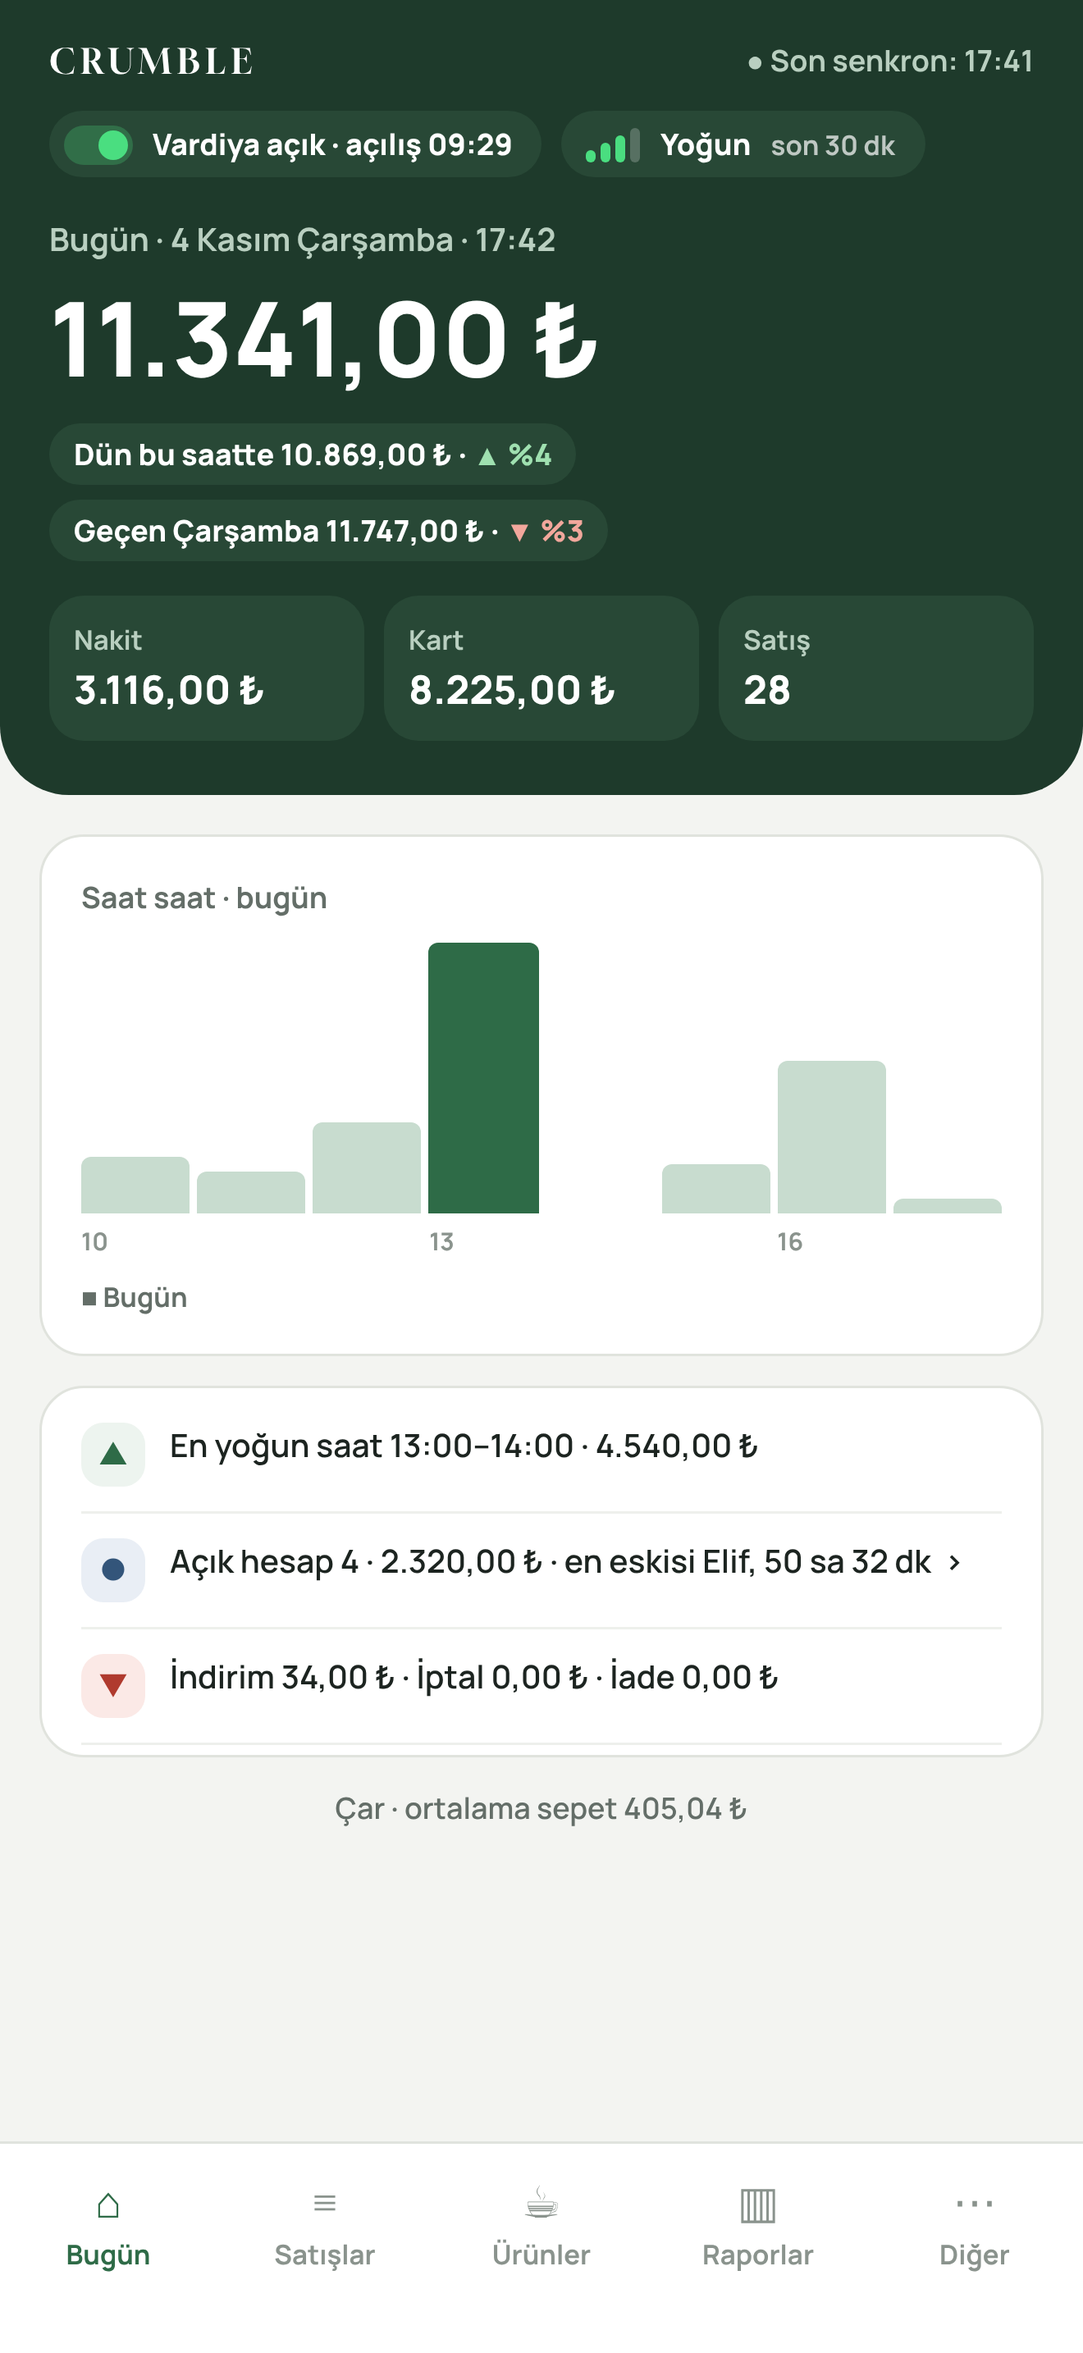
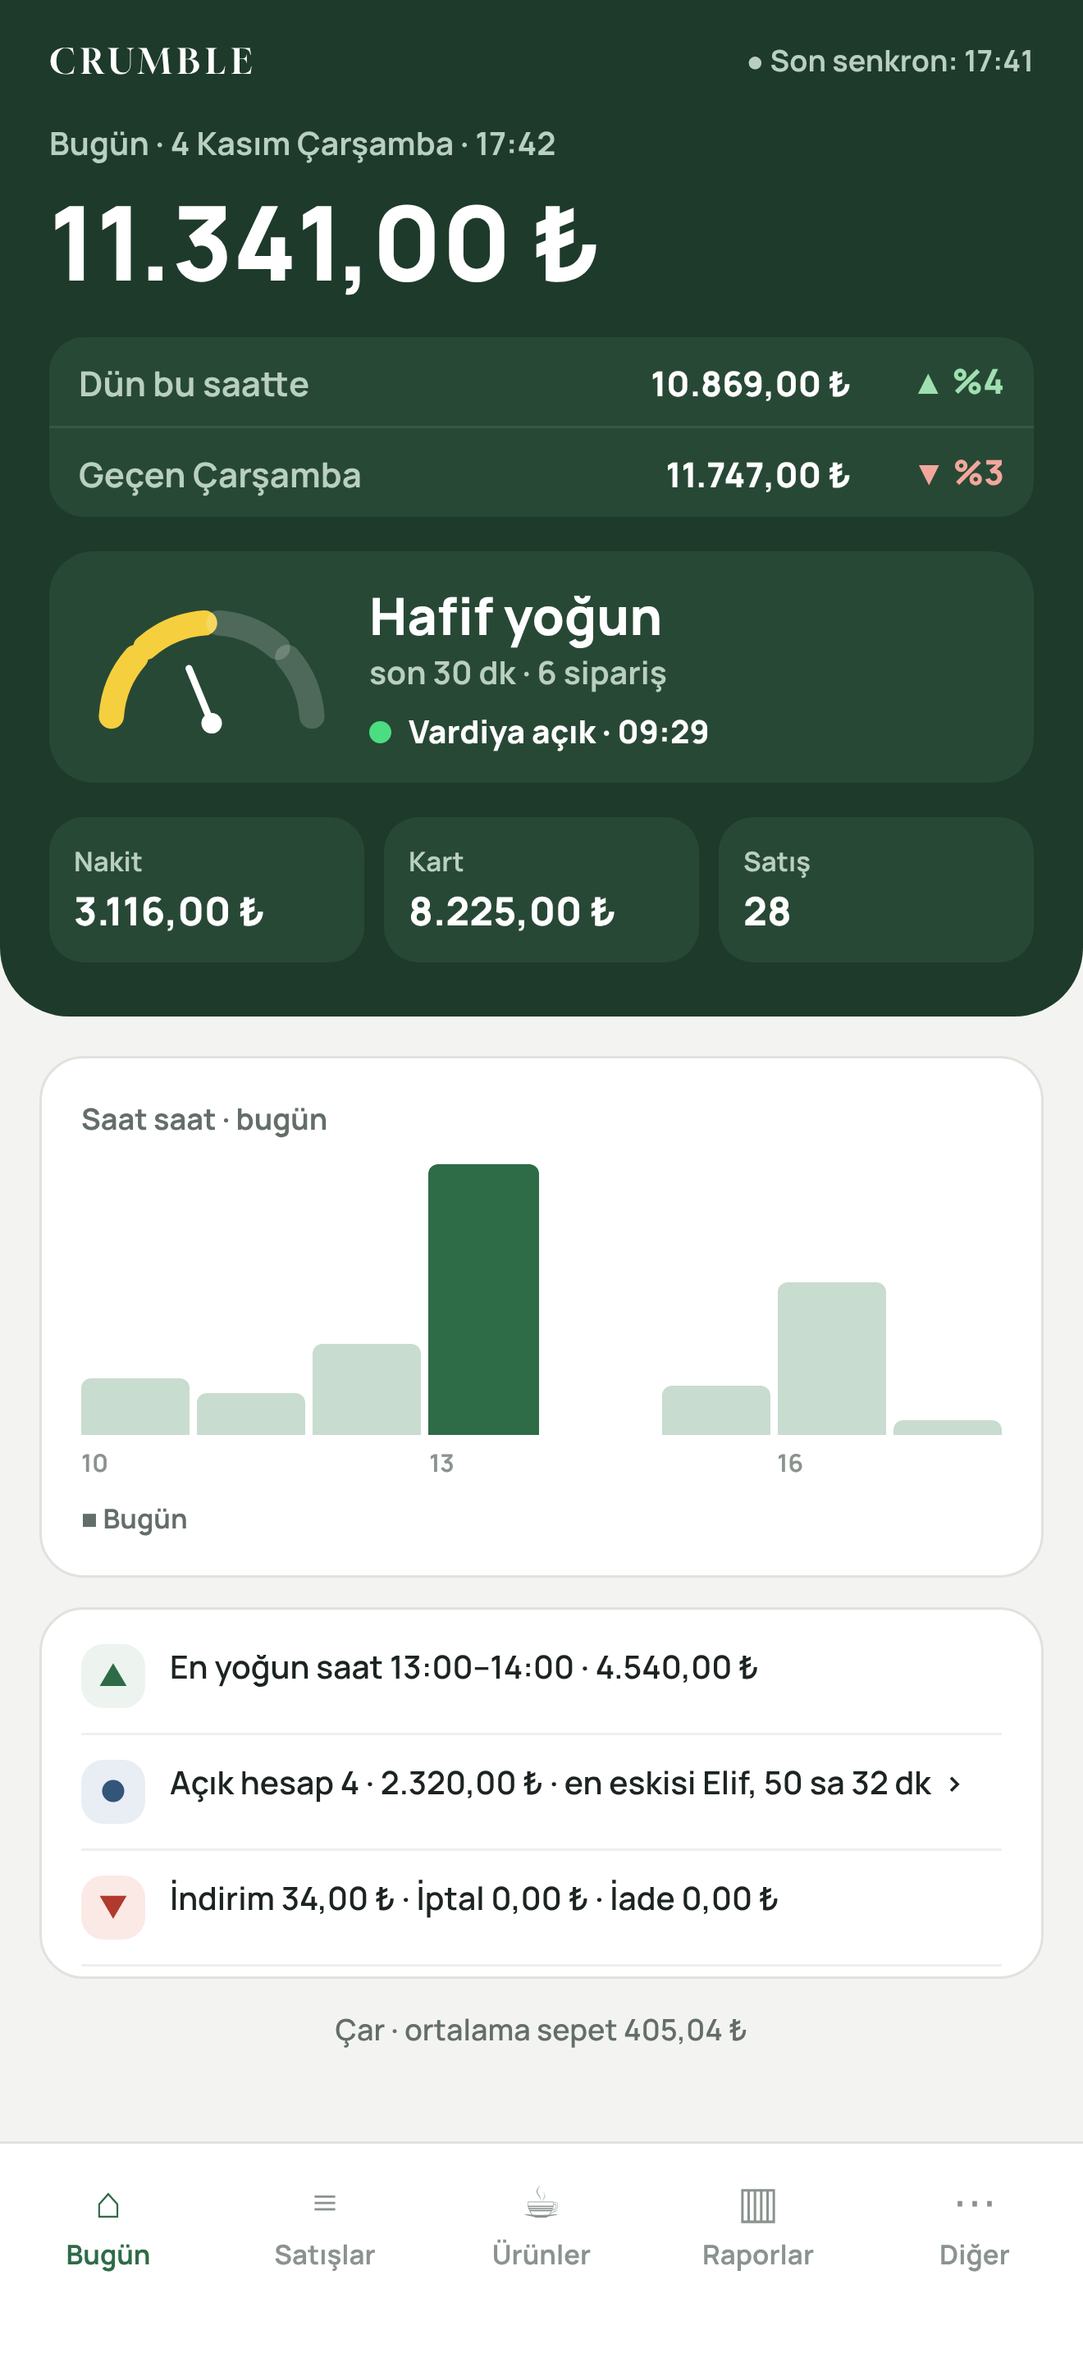
Bugün: tasarım D (kadranlı durum kartı, kıyas listesi), yoğunluk renkleri
- Kıyaslar ciro altında iki satırlık liste, daha büyük yazı.
- Durum kartı: yarım daire yoğunluk kadranı (react-native-svg), seviye,
  son 30 dk sipariş sayısı ve vardiya satırı; senkron üstte kalır.
- Renkler: Sakin yeşil, Hafif yoğun sarımsı, Yoğun koyu turuncu, Çok yoğun kırmızı.
- Ekran görüntüleri yenilendi.

Claude-Session: https://claude.ai/code/session_014qo2PrhJxNVW9tHAzbBuyy

diff --git a/apps/manager-mobile/components/ui.tsx b/apps/manager-mobile/components/ui.tsx
@@ -2,6 +2,7 @@ import { type Busyness, formatTL } from '@crumble/shared';
 import { type ReactNode, useEffect, useRef } from 'react';
 import { Animated, Pressable, RefreshControl, ScrollView, StyleSheet, Text, View } from 'react-native';
 import { useSafeAreaInsets } from 'react-native-safe-area-context';
+import Svg, { Circle, Line, Path } from 'react-native-svg';
 import { loadDeviceStatus } from '../lib/data';
 import { formatDateTime, formatTime } from '../lib/format';
 import { useLive } from '../lib/useLive';
@@ -103,11 +104,11 @@ export function Label({ children }: { children: ReactNode }) {
 }
 
 /** ▲ %15 / ▼ %7 (green / red); nothing when there is no basis. */
-export function Delta({ value, suffix = '', onDark = false }: { value: number | null; suffix?: string; onDark?: boolean }) {
-  if (value === null) return <Text style={[styles.delta, { color: onDark ? colors.forestMuted : colors.faint }]}>—</Text>;
+export function Delta({ value, suffix = '', onDark = false, size }: { value: number | null; suffix?: string; onDark?: boolean; size?: number }) {
+  if (value === null) return <Text style={[styles.delta, size ? { fontSize: size } : null, { color: onDark ? colors.forestMuted : colors.faint }]}>—</Text>;
   const up = value >= 0;
   const color = onDark ? (up ? colors.upOnDark : colors.downOnDark) : up ? colors.ok : colors.danger;
-  return <Text style={[styles.delta, { color }]}>{`${up ? '▲' : '▼'} %${Math.abs(value)}${suffix}`}</Text>;
+  return <Text style={[styles.delta, size ? { fontSize: size } : null, { color }]}>{`${up ? '▲' : '▼'} %${Math.abs(value)}${suffix}`}</Text>;
 }
 
 export function Stat({
@@ -380,13 +381,12 @@ export function Fact({ tone, children }: { tone: 'up' | 'down' | 'info'; childre
 
 export const styles = StyleSheet.create({
   screen: { flex: 1, backgroundColor: colors.bg },
-  shiftLight: { flexDirection: 'row', alignItems: 'center', gap: 8, alignSelf: 'flex-start', marginTop: 12, backgroundColor: colors.forestChip, borderRadius: 999, paddingVertical: 5, paddingLeft: 6, paddingRight: 12 },
-  shiftTrack: { width: 28, height: 16, borderRadius: 999, padding: 2 },
-  shiftKnob: { width: 12, height: 12, borderRadius: 999 },
-  shiftText: { color: colors.forestInk, fontFamily: fonts.heavy, fontSize: 12 },
-  busyBars: { flexDirection: 'row', alignItems: 'flex-end', gap: 2, height: 14, paddingLeft: 4 },
-  busyBar: { width: 4, borderRadius: 2 },
-  busySub: { color: colors.forestInk, opacity: 0.7, fontFamily: fonts.bold, fontSize: 11 },
+  status: { flexDirection: 'row', alignItems: 'center', gap: 12, marginTop: 14, backgroundColor: colors.forestChip, borderRadius: 18, paddingVertical: 12, paddingHorizontal: 14 },
+  statusLevel: { color: colors.forestInk, fontFamily: fonts.heavy, fontSize: 21 },
+  statusSub: { color: colors.forestMuted, fontFamily: fonts.bold, fontSize: 13 },
+  statusShift: { flexDirection: 'row', alignItems: 'center', gap: 7, marginTop: 6 },
+  statusDot: { width: 9, height: 9, borderRadius: 999 },
+  statusShiftText: { color: colors.forestInk, fontFamily: fonts.heavy, fontSize: 13 },
   heroBounce: { position: 'absolute', top: -1000, left: 0, right: 0, height: 1000, backgroundColor: colors.forest },
   content: { padding: 16, paddingBottom: 40 },
   header: { marginBottom: 14, flexDirection: 'row', alignItems: 'flex-end', justifyContent: 'space-between', gap: 8, flexWrap: 'wrap' },
@@ -432,16 +432,47 @@ export const styles = StyleSheet.create({
   factText: { flex: 1, fontSize: 13, lineHeight: 19, color: colors.text, fontFamily: fonts.semibold },
 });
 
+/** Kafe yoğunluğu kadranı (2026-11-04, tasarım D): four arcs, filled up to the level, and a needle. */
+export function BusyGauge({ level, width = 104 }: { level: number | null; width?: number }) {
+  const cx = 56, cy = 58, r = 44, gap = 0.07;
+  const point = (a: number) => `${(cx + r * Math.cos(a)).toFixed(2)} ${(cy + r * Math.sin(a)).toFixed(2)}`;
+  const needle = Math.PI + (((level ?? 0) + 0.5) * Math.PI) / 4;
+  const tint = level === null ? colors.gaugeIdle : colors.busy[level]!;
+  return (
+    <Svg width={width} height={(width * 66) / 112} viewBox="0 0 112 66">
+      {[0, 1, 2, 3].map((i) => {
+        const a0 = Math.PI + (i * Math.PI) / 4 + gap;
+        const a1 = Math.PI + ((i + 1) * Math.PI) / 4 - gap;
+        return (
+          <Path
+            key={i}
+            d={`M${point(a0)} A${r} ${r} 0 0 1 ${point(a1)}`}
+            stroke={level !== null && i <= level ? tint : colors.gaugeIdle}
+            strokeWidth={11}
+            strokeLinecap="round"
+            fill="none"
+          />
+        );
+      })}
+      {level !== null && (
+        <>
+          <Line x1={cx} y1={cy} x2={cx + 26 * Math.cos(needle)} y2={cy + 26 * Math.sin(needle)} stroke="#fff" strokeWidth={3} strokeLinecap="round" />
+          <Circle cx={cx} cy={cy} r={4.5} fill="#fff" />
+        </>
+      )}
+    </Svg>
+  );
+}
+
 /**
- * Vardiya göstergesi (2026-11-04): a small switch-like pill on the Bugün hero,
- * green and gently pulsing while a shift is open, red when it is closed. Only
- * shows the state; nothing happens on tap.
+ * Bugün'ün durum kartı (2026-11-04, tasarım D): the busyness gauge, its level
+ * and the last half hour's order count, and under them the shift (green dot
+ * gently pulsing while open, red when closed). Only shows state.
  */
-export function ShiftLight({ open, since }: { open: boolean; since?: string }) {
+export function StatusCard({ busy, openedAt }: { busy: Busyness | null; openedAt: string | null }) {
   const pulse = useRef(new Animated.Value(1)).current;
-  const knob = useRef(new Animated.Value(open ? 1 : 0)).current;
+  const open = openedAt !== null;
   useEffect(() => {
-    Animated.timing(knob, { toValue: open ? 1 : 0, duration: 250, useNativeDriver: true }).start();
     if (!open) {
       pulse.setValue(1);
       return;
@@ -454,35 +485,21 @@ export function ShiftLight({ open, since }: { open: boolean; since?: string }) {
     );
     loop.start();
     return () => loop.stop();
-  }, [open, knob, pulse]);
-  const tint = open ? colors.shiftOpen : colors.shiftClosed;
+  }, [open, pulse]);
+  const shown = open ? busy : null;
   return (
-    <View style={styles.shiftLight} accessibilityLabel={open ? 'Vardiya açık' : 'Vardiya kapalı'} testID="shift-light">
-      <View style={[styles.shiftTrack, { backgroundColor: open ? 'rgba(74,222,128,0.25)' : 'rgba(248,113,113,0.25)' }]}>
-        <Animated.View
-          style={[
-            styles.shiftKnob,
-            { backgroundColor: tint, opacity: pulse, transform: [{ translateX: knob.interpolate({ inputRange: [0, 1], outputRange: [0, 12] }) }] },
-          ]}
-        />
+    <View style={styles.status} testID="busy-meter" accessibilityLabel={shown ? `Yoğunluk: ${shown.label}` : 'Vardiya kapalı'}>
+      <BusyGauge level={shown?.level ?? null} />
+      <View style={{ flex: 1 }}>
+        <Text style={[styles.statusLevel, !shown && { color: colors.forestMuted }]} testID="busy-label">
+          {shown?.label ?? '—'}
+        </Text>
+        <Text style={styles.statusSub}>{shown ? `son 30 dk · ${shown.orders} sipariş` : 'vardiya açılınca görünür'}</Text>
+        <View style={styles.statusShift} testID="shift-light" accessibilityLabel={open ? 'Vardiya açık' : 'Vardiya kapalı'}>
+          <Animated.View style={[styles.statusDot, { backgroundColor: open ? colors.shiftOpen : colors.shiftClosed, opacity: pulse }]} />
+          <Text style={styles.statusShiftText}>{open ? `Vardiya açık · ${formatTime(openedAt)}` : 'Vardiya kapalı'}</Text>
+        </View>
       </View>
-      <Text style={styles.shiftText}>{open ? `Vardiya açık${since ? ` · ${since}` : ''}` : 'Vardiya kapalı'}</Text>
-    </View>
-  );
-}
-
-/** Kafe yoğunluğu (2026-11-04): four signal bars and the level, from the last 30 minutes' orders. */
-export function BusyMeter({ busy }: { busy: Busyness }) {
-  const tint = busy.level === 3 ? colors.shiftClosed : colors.shiftOpen;
-  return (
-    <View style={styles.shiftLight} accessibilityLabel={`Yoğunluk: ${busy.label}`} testID="busy-meter">
-      <View style={styles.busyBars}>
-        {[0, 1, 2, 3].map((i) => (
-          <View key={i} style={[styles.busyBar, { height: 5 + i * 3, backgroundColor: i <= busy.level ? tint : 'rgba(255,255,255,0.22)' }]} />
-        ))}
-      </View>
-      <Text style={styles.shiftText} testID="busy-label">{busy.label}</Text>
-      <Text style={styles.busySub}>son 30 dk</Text>
     </View>
   );
 }

diff --git a/apps/manager-mobile/app/(tabs)/index.tsx b/apps/manager-mobile/app/(tabs)/index.tsx
@@ -20,7 +20,7 @@ import { useCallback } from 'react';
 import { Pressable, StyleSheet, Text, View } from 'react-native';
 import { useSafeAreaInsets } from 'react-native-safe-area-context';
 import { colors, fonts } from '../../components/theme';
-import { BusyMeter, Card, Columns, Delta, Fact, Label, LastSync, Screen, ShiftLight } from '../../components/ui';
+import { Card, Columns, Delta, Fact, Label, LastSync, Screen, StatusCard } from '../../components/ui';
 import { loadCatalog, loadItemsSince, loadOpenShift, loadOpenTabTotals, loadReportData } from '../../lib/data';
 import { formatDay, formatTime, tabLabel } from '../../lib/format';
 import { useLive } from '../../lib/useLive';
@@ -96,28 +96,29 @@ export default function Today() {
         <Text style={s.brand}>CRUMBLE</Text>
         <LastSync onDark />
       </View>
-      <View style={s.chips}>
-        <ShiftLight open={!!data.openShift} since={data.openShift ? `açılış ${formatTime(data.openShift.opened_at)}` : undefined} />
-        {data.openShift && <BusyMeter busy={busy} />}
-      </View>
       <Text style={s.heroLabel}>
         Bugün · {formatDay(today)} · {formatTime(now)}
       </Text>
       <Text style={s.heroBig} testID="today-revenue">
         {formatTL(totals.revenue)}
       </Text>
-      <View style={s.pills}>
-        <View style={s.pill}>
-          <Text style={s.pillText}>Dün bu saatte {formatTL(cmp.yesterday.revenue)} · </Text>
-          <Delta value={cmp.vsYesterday} onDark />
+      <View style={s.compare}>
+        <View style={s.compareRow}>
+          <Text style={s.compareLabel}>Dün bu saatte</Text>
+          <Text style={s.compareValue}>{formatTL(cmp.yesterday.revenue)}</Text>
+          <View style={s.comparePct}>
+            <Delta value={cmp.vsYesterday} onDark size={14} />
+          </View>
         </View>
-        <View style={s.pill}>
-          <Text style={s.pillText}>
-            Geçen {WEEKDAY_LONG[weekday]} {formatTL(cmp.lastWeek.revenue)} ·{' '}
-          </Text>
-          <Delta value={cmp.vsLastWeek} onDark />
+        <View style={[s.compareRow, s.compareRule]}>
+          <Text style={s.compareLabel}>Geçen {WEEKDAY_LONG[weekday]}</Text>
+          <Text style={s.compareValue}>{formatTL(cmp.lastWeek.revenue)}</Text>
+          <View style={s.comparePct}>
+            <Delta value={cmp.vsLastWeek} onDark size={14} />
+          </View>
         </View>
       </View>
+      <StatusCard busy={busy} openedAt={data.openShift?.opened_at ?? null} />
       <View style={s.heroGrid}>
         <View style={s.heroCell}>
           <Text style={s.heroCellLabel}>Nakit</Text>
@@ -186,13 +187,16 @@ export default function Today() {
 const s = StyleSheet.create({
   hero: { backgroundColor: colors.forest, paddingHorizontal: 20, paddingBottom: 22, borderBottomLeftRadius: 28, borderBottomRightRadius: 28 },
   heroTop: { flexDirection: 'row', justifyContent: 'space-between', alignItems: 'center' },
-  chips: { flexDirection: 'row', flexWrap: 'wrap', columnGap: 8 },
   brand: { fontFamily: fonts.brand, color: '#fff', fontSize: 14, letterSpacing: 2.5 },
   heroLabel: { marginTop: 16, fontSize: 13, fontFamily: fonts.bold, color: colors.forestMuted },
   heroBig: { fontSize: 42, fontFamily: fonts.heavy, color: '#fff', marginTop: 2 },
-  pills: { flexDirection: 'row', flexWrap: 'wrap', gap: 6, marginTop: 6 },
-  pill: { flexDirection: 'row', alignItems: 'center', backgroundColor: colors.forestChip, borderRadius: 999, paddingHorizontal: 10, paddingVertical: 4 },
-  pillText: { fontSize: 12, fontFamily: fonts.heavy, color: '#fff' },
+  // Tasarım D (2026-11-04): the comparisons as a two-row list, larger than the old pills.
+  compare: { marginTop: 10, backgroundColor: colors.forestChip, borderRadius: 14, overflow: 'hidden' },
+  compareRow: { flexDirection: 'row', alignItems: 'center', gap: 10, paddingHorizontal: 12, paddingVertical: 8 },
+  compareRule: { borderTopWidth: 1, borderTopColor: 'rgba(255,255,255,0.08)' },
+  compareLabel: { flex: 1, fontSize: 14, fontFamily: fonts.bold, color: colors.forestMuted },
+  compareValue: { fontSize: 14, fontFamily: fonts.heavy, color: '#fff' },
+  comparePct: { minWidth: 52, alignItems: 'flex-end' },
   heroGrid: { flexDirection: 'row', gap: 8, marginTop: 14 },
   heroCell: { flex: 1, backgroundColor: colors.forestChip, borderRadius: 14, padding: 10 },
   heroCellLabel: { fontSize: 11, fontFamily: fonts.bold, color: colors.forestMuted },

diff --git a/apps/manager-mobile/components/theme.ts b/apps/manager-mobile/components/theme.ts
@@ -5,6 +5,9 @@ export const colors = {
   forest: '#1E3A2B',
   shiftOpen: '#4ADE80',
   shiftClosed: '#F87171',
+  /** Yoğunluk Sakin → Çok yoğun (kullanıcı 2026-11-04: hafif sarımsı, yoğun koyu turuncu). */
+  busy: ['#4ADE80', '#F5CF3D', '#EE6A1F', '#F05252'] as const,
+  gaugeIdle: 'rgba(255,255,255,0.18)',
   forestChip: '#284836',
   forestInk: '#FFFFFF',
   forestMuted: '#B9CFC0',

diff --git a/CLAUDE.md b/CLAUDE.md
@@ -240,9 +240,9 @@ Kaynak repo kökündeki `crumble_menu_seed.csv` (Google Doc `Crumble_Menu_Kasim2
   - Telefon tablolara yazmaz: `tab_request()` ile `tab_requests`'e istek bırakır (`20261104000012_tab_requests.sql`). Türler: ödeme (tutar + nakit/kart sorulur; "Hepsi" kalanı doldurur), ad değiştirme, iptal (sadece hiç ödeme alınmamışsa; ödemeliyse önce kasada iade).
   - Kasa `src/sync/requests.ts` ile senkron turunda bekleyen istekleri çeker, kendi kurallarıyla uygular (`pay`/`setCustomerName`/`voidTab`; ödeme açık vardiyaya yazılır, vardiya kapalıysa reddedilir), push'tan sonra `tab_request_result()` ile done/rejected yazar. Ödemenin id'si isteğin id'si: iki kez uygulamak zararsız. Telefon "kasaya gidiyor / kasada yapıldı / yapılamadı" gösterir. Kasa ekranları `tabsVersion` (`useTabsVersion`) ile yenilenir; açık TabScreen telefonda kapanan hesaptan çıkar.
   - Kullanıcı: hesap düzenlemede sadece ad (ürün ekleme/çıkarma, adet yok).
-- **Mobil yenileme (2026-11-04):** `useLive` arka planda sessiz yeniler (spinner sadece aşağı çekince), yüklemeler üst üste binmez. RefreshControl uygulama renklerinde; Bugün'de yeşil zemin aşağı çekince de yeşil. Bugün'de vardiya göstergesi `ShiftLight` (açıkken yeşil nabız, kapalıyken kırmızı; işlevsiz).
+- **Mobil yenileme (2026-11-04):** `useLive` arka planda sessiz yeniler (spinner sadece aşağı çekince), yüklemeler üst üste binmez. RefreshControl uygulama renklerinde; Bugün'de yeşil zemin aşağı çekince de yeşil. Bugün'de vardiya göstergesi (açıkken yeşil nabız, kapalıyken kırmızı; işlevsiz), 2026-11-04'ten beri `StatusCard` içinde.
 - **App Store (2026-11-04, kullanıcı kararı):** Unlisted dağıtım (aramada yok, sadece link), incelemeciye ortak hesabı (şifreyi kullanıcı yazar). Adımlar ve metinler `apps/manager-mobile/store/app-store.md`, gizlilik politikası `store/gizlilik.md` (repo açık, GitHub adresi kullanılır). Ekran görüntüleri `store/screenshots/` (6,9", demo veri) `apps/pos-desktop/e2e/store-screenshots.e2e.ts` ile üretilir (sadece `CRUMBLE_STORE_SHOTS` verilince çalışır). Web'de alt sekme çubuğu iPhone'daki alt boşluk kadar yüksek (yoksa yazılar kırpılıyordu).
-- **Kafe yoğunluğu (2026-11-04, kullanıcı isteği):** Bugün'de vardiya göstergesinin yanında "Sakin / Hafif yoğun / Yoğun / Çok yoğun" (`BusyMeter`, sadece vardiya açıkken). Hesap `packages/shared/src/reports/busyness.ts`: son 30 dakikada eklenen kalemler (iptal satır ve void hesap hariç) adet × ağırlık. Ağırlık ürün adı ve kategoriden: yemek (tost, baget, makarna, kase, granola) 3, kahve/latte/matcha/sıcak çikolata, pasta ve vitrin (Teşhir), çorba 2, çay, waffle (hazır, kullanıcı 2026-11-04), hazır içecek, paketli ürün 1. Eşikler 12 / 30 / 50 puan. **Ağırlıklar ve eşikler benim tahminim, kullanıcı gerçek günlerde görüp ayarlatacak.** Aynı satırın adedi sonradan artarsa satırın ilk zamanında sayılır.
+- **Kafe yoğunluğu (2026-11-04, kullanıcı isteği):** Bugün'de "Sakin / Hafif yoğun / Yoğun / Çok yoğun". Kullanıcı tasarım D'yi seçti (artifact https://claude.ai/artifact/5ELh2hsnYiSeKW6b2vf3Rs): ciro altında kıyas listesi (dün bu saatte, geçen hafta aynı gün; tutar + yüzde, 14 px), altında `StatusCard` (`BusyGauge` yarım daire kadran `react-native-svg` ile + seviye + son 30 dk sipariş sayısı + vardiya satırı), senkron üst satırda kalır. Renkler `colors.busy`: yeşil, sarımsı, koyu turuncu, kırmızı (kullanıcı isteği; "sarı ton kullanma" kuralının istisnası). Vardiya kapalıyken kadran boş, "vardiya açılınca görünür". Hesap `packages/shared/src/reports/busyness.ts`: son 30 dakikada eklenen kalemler (iptal satır ve void hesap hariç) adet × ağırlık. Ağırlık ürün adı ve kategoriden: yemek (tost, baget, makarna, kase, granola) 3, kahve/latte/matcha/sıcak çikolata, pasta ve vitrin (Teşhir), çorba 2, çay, waffle (hazır, kullanıcı 2026-11-04), hazır içecek, paketli ürün 1. Eşikler 12 / 30 / 50 puan. **Ağırlıklar ve eşikler benim tahminim, kullanıcı gerçek günlerde görüp ayarlatacak.** Aynı satırın adedi sonradan artarsa satırın ilk zamanında sayılır.
 - Henüz yapılmayanlar: `supabase/seed`.
 
 ## Kafe bilgisayarına kurulum (Windows, kullanıcının o bilgisayardaki Claude oturumuyla)
